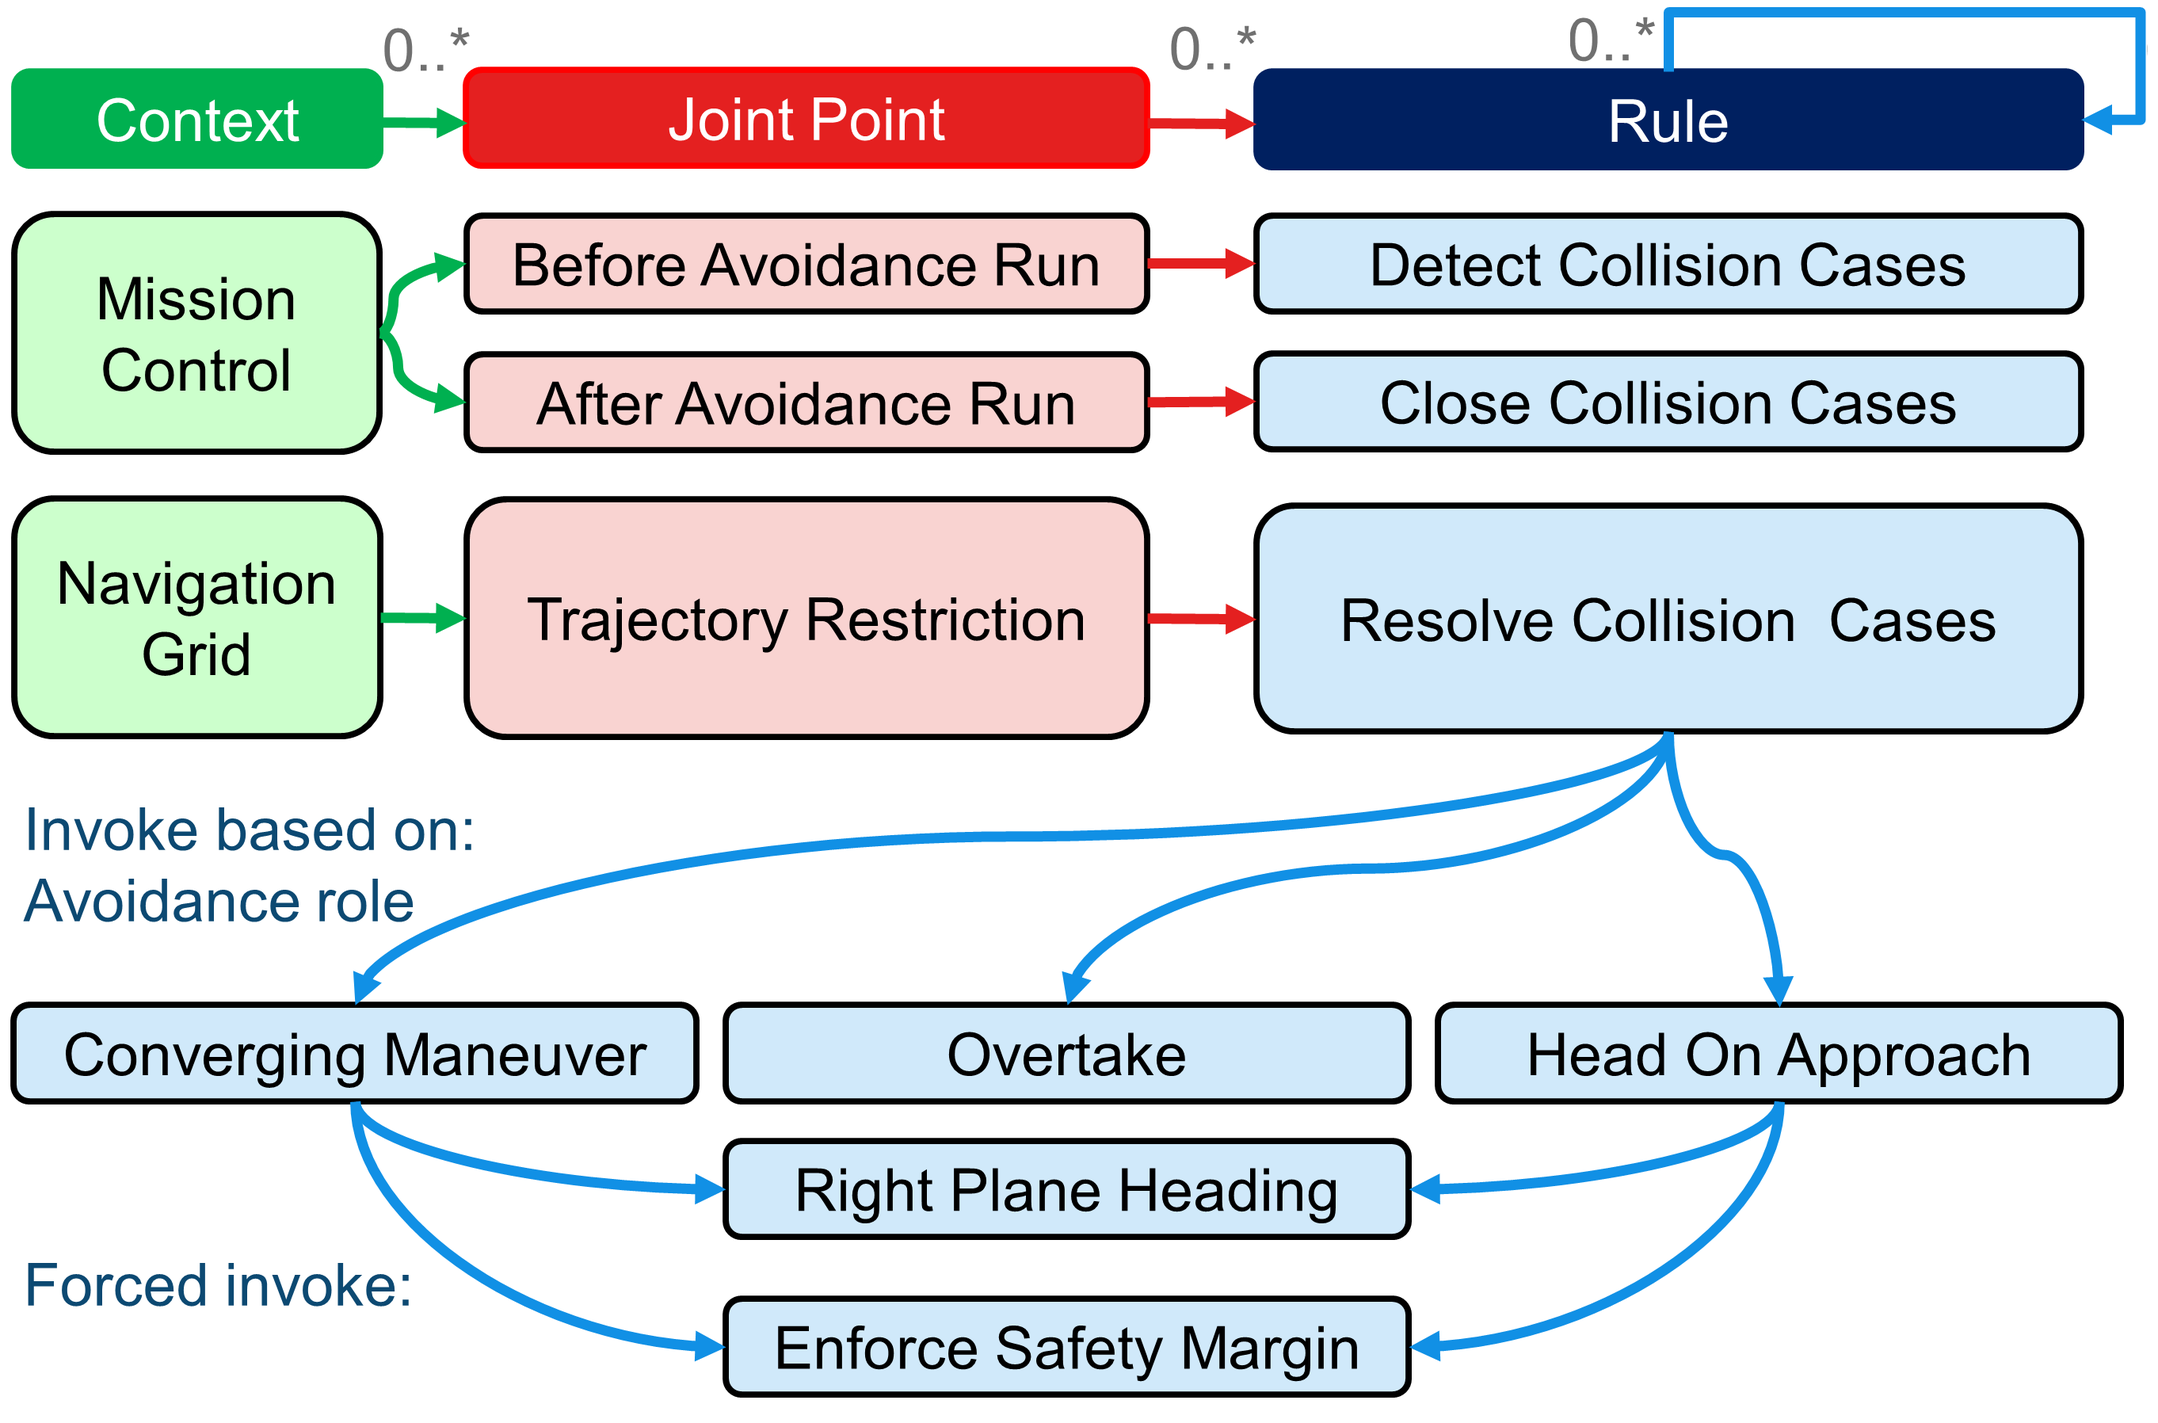
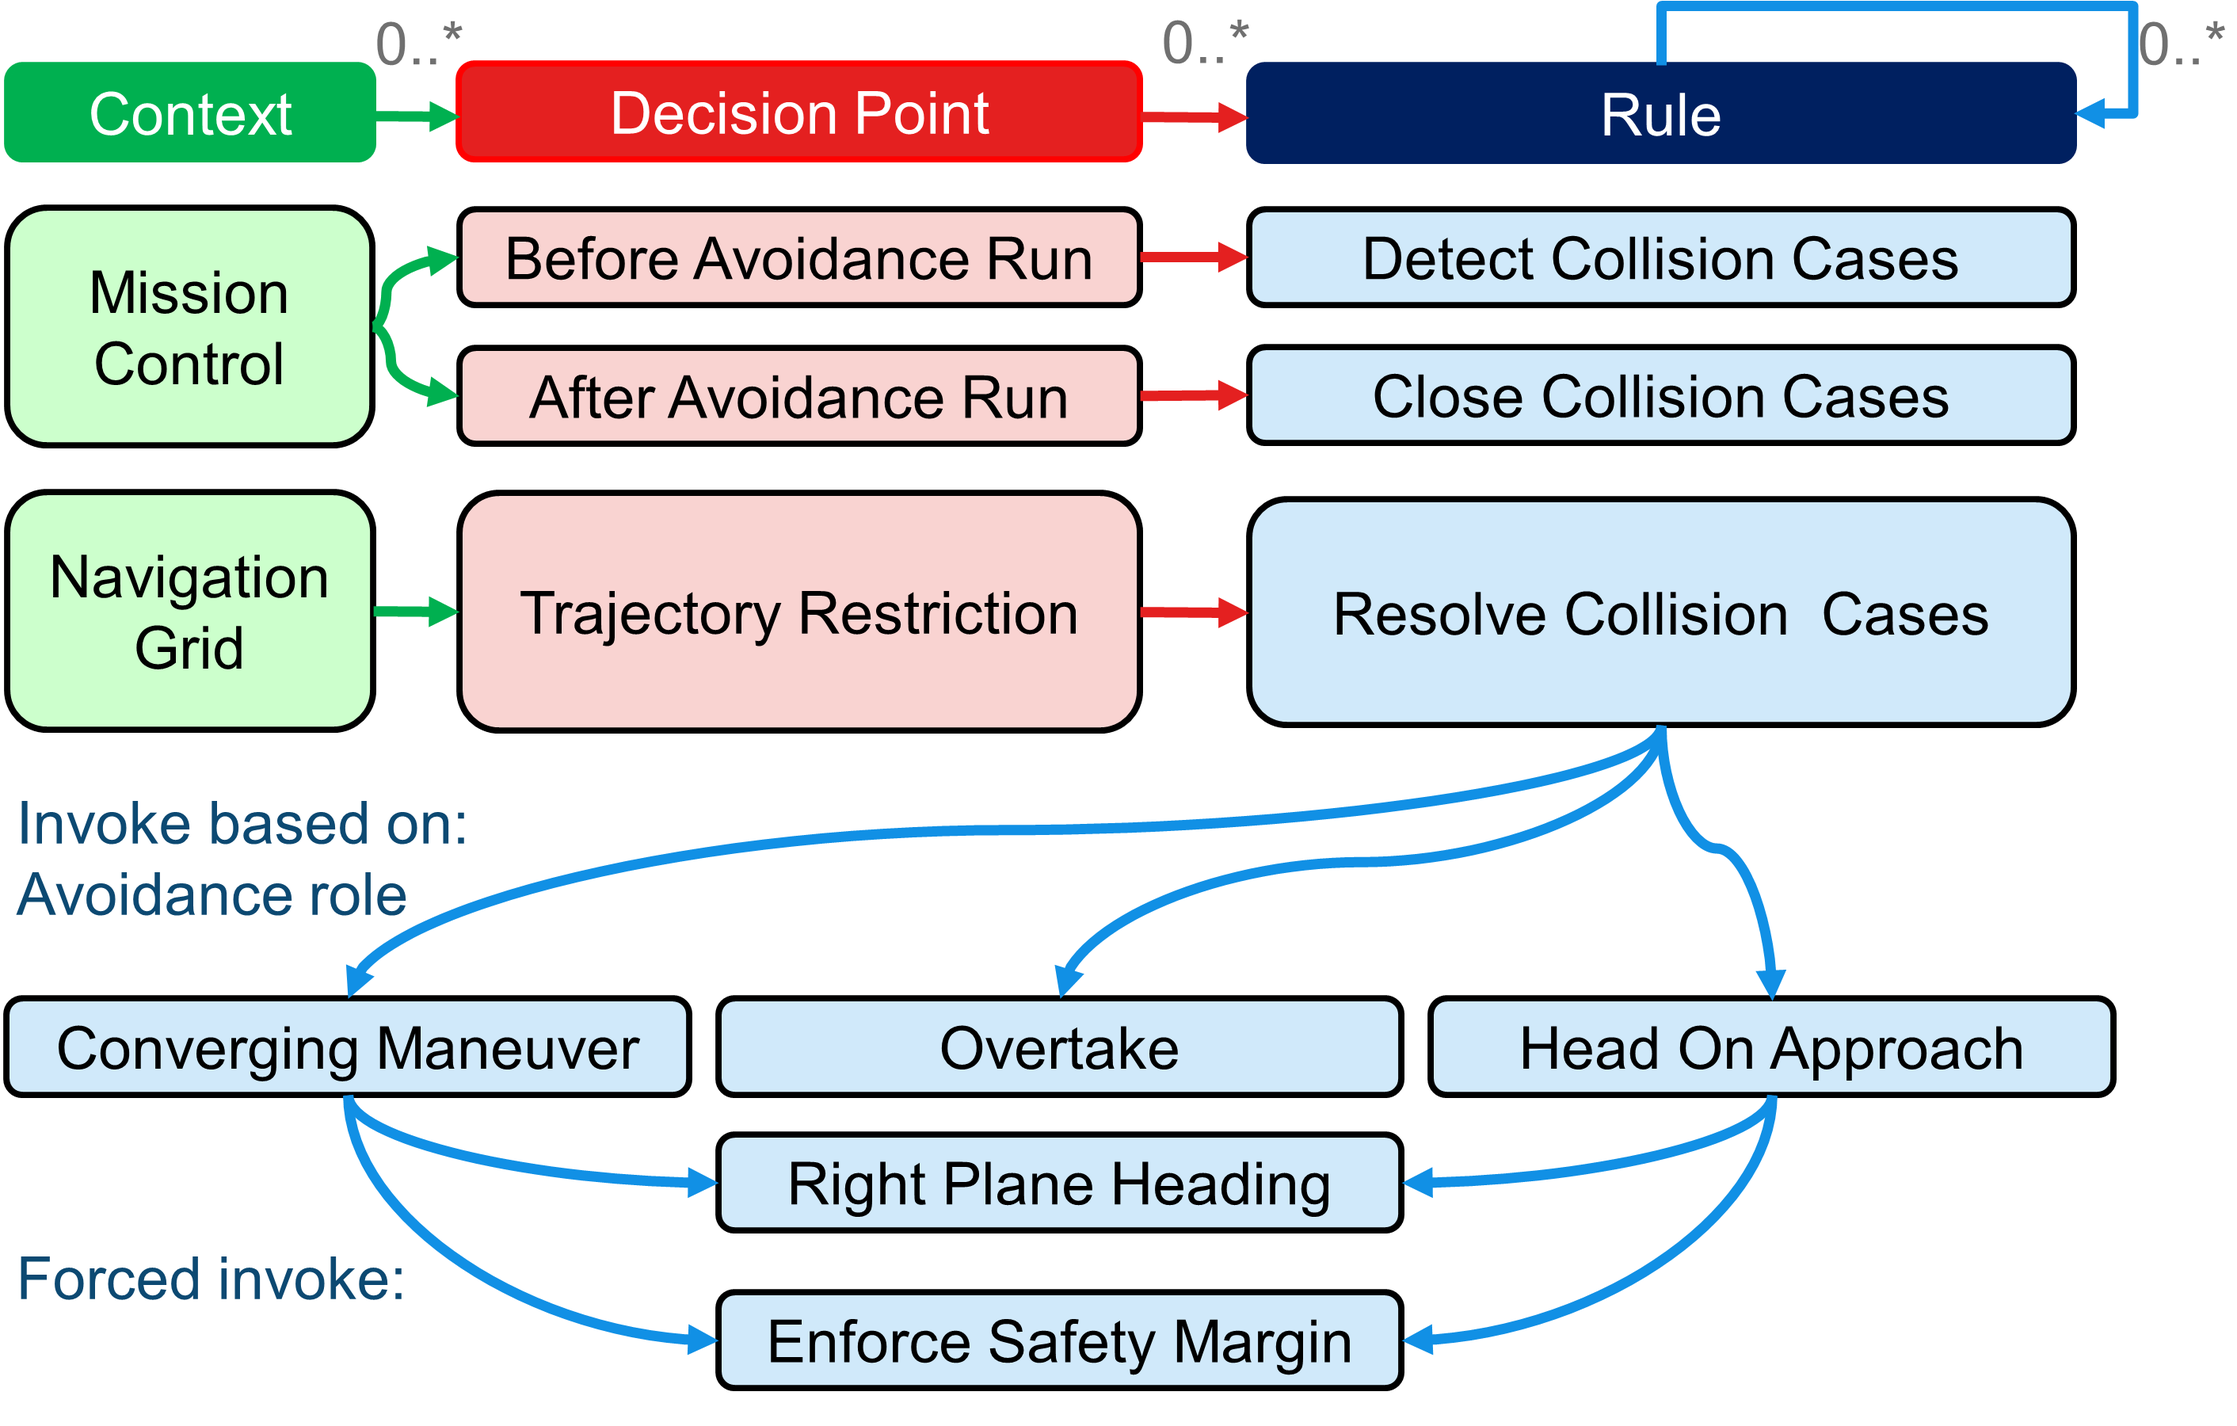
Section 3.8? Complements of Algebra

Changed region(s): [[0.0, 0.0, 0.9985, 0.9978], [0.2184, 0.9042, 0.2496, 0.9354]]

diff --git a/body.tex b/body.tex
@@ -5,49 +5,219 @@
 %--------------
 %- COPY START -
 %--------------        
-\subsection{(R) Architecture}\label{s:RuleEngineArchitecture}
+\section{(R) Complements of Algebra}\label{sec:complementsOfAlgebra}
 
-\paragraph{Purpose:} The \emph{core process} of \emph{Avoidance Grid Run} (sec. \ref{s:aviudabceGridRun}) and \emph{Mission Control Run} (sec. \ref{s:missionControlRun}) needs to be enhanced based on  situation. The architecture is based on \emph{aspect oriented approach} \cite{hill2003jess}. The key ideas and concept is taken from rule engine implementation for multiagent  navigation system \cite{seyboth2013event}.
+\paragraph{Cartesian Space:} 3D Cartesian space defined by an X, Y, and Z axes (describing position based on horizontal placement, vertical placement, and depth respectively). The coordinates for any point within this space are shown as a vector $[x,y,z]$. \emph{Coordinate system} used this work is the right-handed system (thumbs points at positive direction of x-axis, index finger is pointing to positive direction of y-axis, the positive  of z axis given by remaining fingers).
 
-\paragraph{Rule Engine:} The program module to inject and run \emph{rules} modifying standard work-flow based on  triggering events. The \emph{aspect oriented} approach enables to configure rules in \emph{run-time} via predefined process hooks - \emph{Decision Points}. 
+\paragraph{Base Works:}\emph{Euler} outlined \emph{universal rotation theorem} which was presented in \cite{euler1775formulae}. Rigid body dynamics and rotation matrices defined by Schaub \cite{schaub2003analytical}. 
 
-The rules in context of this work are pieces of code which have semi-static structure consisting from following parts (fig. \ref{fig:RuleEngineBasicArchitecture}):
+\paragraph{UAS Coordinate System:} \emph{Local Coordinate frame} is defined by UAS mass center as space center, $Z-$ in direction of gravitational force, $X+$ in direction of UAS heading. This local coordinate system is called Euler Normalized Unit-frame (ENU). 
 
-\begin{enumerate}
-    \item \emph{Decision Point} - hook point in process where the rule can be attached/detached. If more than one rule is hooked the priority of execution needs to be defined. 
-    
-    \item \emph{Context} - the \emph{run time context} in time of \emph{invocation} in our case the \emph{copy} of \emph{Mission Control}, \emph{Avoidance/Navigation Grid} and \emph{Collision Cases}.
-    
-    \item \emph{Parser Method} - optional helper method to parse interesting data set from \emph{Context}. The \emph{parsed data} have better readability.
-    
-    \item \emph{Condition Check Method} - implementation of the trigger. If the sufficient condition is met, the rule body is applied.
-    
-    \item \emph{Rule application} - calculations and data structure changes. Mainly \emph{disabling trajectories} in \emph{Reach Set} in our implementation.     
-\end{enumerate}
+\paragraph{Rotation Matrices:} Following \emph{Rotation Matrices} are used to transform between two displaced coordinate systems. Roll angle rotation is defined around X-axis by matrix (eq. \ref{eq:rollTransformationMatrix}) on YZ-plane. Pitch angle  rotation matrix is defined around Y-axis by matrix (eq. \ref{eq:pitchTransformationMatrix}) on XZ-plane. Yaw angle rotation matrix is defined around Z axis by matrix (eq. \ref{eq:yawTranformationMatrix}) on XY-plane.
 
-\paragraph{Configurability:} The \emph{Rule Engine} enables real time configuration. The \emph{Enabled Rule Table} have been implemented to enforce specific rules in specific context. 
+\begin{equation}\label{eq:rollTransformationMatrix}
+    R_{YZ} = R_{roll} =
+    \begin{bmatrix}
+        1 & 0 & 0\\
+        0 & \cos(roll) & -\sin(roll)\\
+        0 & \sin(roll) & \cos(roll)
+    \end{bmatrix}
+\end{equation}
+\begin{equation}\label{eq:pitchTransformationMatrix}
+    R_{XZ} = R_{pitch} =
+    \begin{bmatrix}
+        \cos(pitch) & 0 & \sin(pitch)\\
+        0 & 1 & 0\\
+        -\sin(pitch) & 0 & \cos(pitch)
+    \end{bmatrix}
+\end{equation}
+\begin{equation}\label{eq:yawTranformationMatrix}
+    R_{XY} = R_{yaw} = 
+    \begin{bmatrix}
+        \cos(yaw) & -\sin(yaw) & 0 \\
+        \sin(yaw) & \cos(yaw) & 1 \\
+        0 & 0 & 1
+    \end{bmatrix}
+\end{equation}
+The full rotation matrix in X,Y,Z  is given by (eq. \ref{eq:xyzspaceRotationMatrix}).
 
-The \emph{Rules} can be invoked from \emph{Rule Application}, this enables effective rule chaining and piece-wise functionality split. 
+\begin{equation}\label{eq:xyzspaceRotationMatrix}  
+        R_{XYZ}  = R_{roll,pitch,yaw} =  R_{XY} * R_{XZ} * R_{YZ} = R_{yaw} * R_{pitch} *R_{roll}
+\end{equation}
+
+\begin{note}
+    The rotation matrix $R_{XYZ}$ (eq. \ref{eq:xyzspaceRotationMatrix}) and its inverse $R_{XYZ}^{-1}$ which gives identity $R_{XYZ} \times R_{XYZ}^{-1} = I$ are used all over this work in transformation.
+\end{note}
+
+\paragraph{Gimbal Lock Prevention:} To keep solution numerically stable and rotations numerically stable gimbal lock prevention is necessary \cite{kramer1977gyro}. Gimbal lock occurs when one of matrices (eq. \ref{eq:rollTransformationMatrix}, \ref{eq:pitchTransformationMatrix}, \ref{eq:yawTranformationMatrix}) is singular or final matrix for X,Y,Z rotation is singular (eq. \ref{eq:xyzspaceRotationMatrix}). Gimbal lock leads to loose of one or more degree of freedom, depending on rank and space dimension of singular matrix. To prevent gimbal lock it is necessary to introduce mechanism to check if rotation matrix is regular. For this purpose normative reset function is introduced:
+\begin{equation}
+    \left [ roll, pitch , yaw \right ]^T = f(t,roll^-,pitch^-,yaw^-), \quad \textnormal{norm}(R_{roll,pitch, yaw})=3
+\end{equation}
+
+
+\noindent Function resets yaw or roll angle to initial position to keep degree of rotation matrix. Simpler but not fault tolerant solution is to keep angles $roll,pitch,yaw \in \left (  -\pi,\pi\right ]$ range.
+
+
+\paragraph{Polar coordinates:} A \emph{polar coordinate system} represents point in form of vector:
+\begin{equation*}
+    point_{polar}=[distance, horizontal Dislocation Angle, vertical Dislocation Angle]^T
+\end{equation*}
+which is ideal for representation of LiDAR scanned point, because usually total point distance and pair of dislocation angles are returned. Using most common LiDAR with horizontal rotation $horizontal^\circ$ and vertical mirror inclination $vertical^\circ$, one can define planar coordinate $point_{planar} = [distance_{x,y,z},horizontal^\circ,vertical^\circ]$ which is dual to Cartesian coordinate $point_{cartesian} = [x,y,z]$. If rotation angle  ranges are $horizontal^\circ,vertical^\circ\in(-\pi,\pi]$ transformation function is bijection.
+
+\paragraph{Planar $\to$ Cartesian:} Transformation from planar to Cartesian representation is defined by following series of functions (eq. \ref{eq:cpt01}, \ref{eq:cpt02},\ref{eq:cpt03}, \ref{eq:cpt04}).
+
+\begin{equation}\label{eq:cpt01}
+    distance_{xy} = \cos(horizontal^\circ)\times distance_{xyz}
+\end{equation}
+
+\begin{equation}\label{eq:cpt02}
+    z = \sin(hirizontal^\circ)\times distance_{xyz}
+\end{equation}
+
+\begin{equation}\label{eq:cpt03}
+    y = \sin(horizontal^\circ)\times distance_{xy}
+\end{equation}
+
+\begin{equation}\label{eq:cpt04}
+    x = \cos(vertical^\circ) \times distance_{xy}
+\end{equation}
+
+
+\paragraph{Cartesian $\to$ Planar:} Transformation from Cartesian to planar representation is defined by following series of functions (eq \ref{eq:cpt05}, \ref{eq:cpt06},\ref{eq:cpt07}, \ref{eq:cpt08}).
+
+\begin{equation}\label{eq:cpt05}
+    distance_{xyz} = \sqrt{x^2+y^2+z^2}    
+\end{equation}
+
+\begin{equation}\label{eq:cpt06}
+    distance_{xy} = \sqrt{x^2+y^2}    
+\end{equation}
+
+\begin{equation}\label{eq:cpt07}
+    horizontal^\circ = \arctan\left(\frac{y}{x}\right)
+\end{equation}
+
+\begin{equation}\label{eq:cpt08}
+    vertical^\circ =  \arctan \left( \frac{z}{d_{xy}}\right)
+\end{equation}
+
+\begin{definition}{Global Coordinate System (GCS) $\mathscr{X}_\mathscr{G}$}\label{def:globalCoordinateSystem}
+    takes as center $c_{\mathscr{G}0}$ well known point (for example center of geo-reference model in GNSS systems) every reference distance, plane or angle is calculated taking this center to mind.
+\end{definition}
+
+\begin{definition}{Local Coordinate System (LCS) $\mathscr{X}_\mathscr{L}$}\label{def:localCoordinateSystem}
+    takes as center $c_{\mathscr{L}0}$ frame of vehicle and can be changing position and orientation in global coordinate frame $\mathscr{X}_\mathscr{G}$.
+\end{definition}
+
+\begin{definition}{Global position of planar obstacle $o_i\in\mathscr{O}_{3D}$.}\label{def:globalObstaclePosition3D}
+    Let $o_i = [d_o, \theta_o, \varphi_o]^T$ be planar position of obstacle $o_i$ in local coordinate frame of vehicle with global Cartesian position $[x,_v,y_v,z_v]^T$ and normalized orientation angles $[roll_v,pitch_v,yaw_v]$.\\
+    Then Cartesian position of obstacle $oi$, $[x_o,y_o,z_o]^T$  in local coordinate frame is given by transformation functions $x_o$ (eq. \ref{eq:cpt04}), $y_o$ (eq. \ref{eq:cpt03}), $z_o$ (eq. \ref{eq:cpt02}).\\ 
+    Global  position of planar obstacle $oi$, $[x_g,y_g,z_g]^T$ is given by following equation:
+    \begin{equation}
+        \begin{bmatrix}
+            x_g\\y_g\\z_g
+        \end{bmatrix}
+        =
+        \left [
+            R_{XYZ}(roll_v,pitch_v,yaw_v)
+            \begin{bmatrix}
+                x_o\\y_o\\z_o
+            \end{bmatrix}
+            +
+            \begin{bmatrix}
+                x_v\\y_v\\z_v
+            \end{bmatrix}
+        \right ]
+    \end{equation}    
+\end{definition}
+
+\begin{definition}{Local position of global coordinate $[x_g,y_g,z_g]^T\in\R^3$.}\label{def:globalToLocal}
+    Let there be vehicle with global Cartesian position $[x,_v,y_v,z_v]^T$ and normalized orientation angles $[roll_v,$ $pitch_v,$ $yaw_v]$. in global coordinate frame $\mathscr{X}_\mathscr{X}$.\\
+    Then local Cartesian coordinate position $[x_l,y_l,z_l]^T$ of point $[x_g,y_g,z_g]^T$ is given by following equation:
+    \begin{equation}
+        \begin{bmatrix}
+            x_l\\y_l\\z_l
+        \end{bmatrix}
+        =
+        \left [
+            R_{XYZ}(-roll_v,-pitch_v,-yaw_v)
+            \left (
+            \begin{bmatrix}
+                x_g\\y_g\\z_g
+            \end{bmatrix}
+            -
+            \begin{bmatrix}
+                x_v\\y_v\\z_v
+            \end{bmatrix}
+            \right )
+        \right ]
+    \end{equation}
+    Local planar position is given as $[distance_l, horizontal_l^\circ,horizontal_l^\circ]$, where $distance_l$ is given by (eq. \ref{eq:cpt05}), $vertical_l^\circ$ is given by (eq. \ref{eq:cpt07}). $vertical_l^\circ$ is given by (eq. \ref{eq:cpt08}), where $[x_l,y_l,z_l]$ are used as local coordinates.
+\end{definition}
+
+\paragraph{Planar surface calculation:} The problem is to calculate intersected surface $dA$ of ball subsurface defined by radius $r$, horizontal span $\phi$ and vertical span $\theta$. From classical mechanics one can formulate problem as given by (fig. \ref{fig:80BallSpan}). The intersection plot is in (fig. \ref{fig:81BallSpan2}).
 
 \begin{figure}[H]
     \centering
-    \includegraphics[width=0.7\linewidth]{\FIGDIR/RE013RuleEngineBasicArchitecture}
-    \caption{Rule engine components overview.}
-    \label{fig:RuleEngineBasicArchitecture}
+    \begin{subfigure}[H]{0.3\textwidth}
+        \includegraphics[width=\textwidth]{\FIGDIR/80BallSpan.jpg}
+        \caption{Notation}
+        \label{fig:80BallSpan}
+    \end{subfigure}
+    \begin{subfigure}[H]{0.3\textwidth}
+        \includegraphics[width=\textwidth]{\FIGDIR/81BallSpan2.png}
+        \caption{Plot}
+        \label{fig:81BallSpan2}
+    \end{subfigure}
+    \caption{Planar surface calculation notation and plot}
+    \label{fig:BallSpanNOTPLOT}
 \end{figure}
 
-\paragraph{Example:} The \emph{UAS} is flying in controlled airspace. The \emph{intruder} shows in front of \emph{UAS}. The \emph{UAS} is faster than \emph{intruder}. The \emph{UAS} tries to obtain permission for \emph{Overtake}. The \emph{UTM} does not allow \emph{overtake}, because of \emph{insufficient UAS maneuverability capability}. The \emph{Rule} (fig. \ref{fig:RuleEngineBasicArchitecture}) with:
-\begin{enumerate}
-    \item \emph{Context} - UAS Mission Control, containing the actual mission goal and UAS parameters. 
-    
-    \item \emph{Decision Point} (Joint Point) - Navigation grid, containing projected constraints and reach set approximation.
-    
-    \item \emph{Rule is invoked:}
-    \begin{enumerate}[a.]
-        \item \emph{Parser} parses the context which is \emph{Intruder position notification} containing heading and velocity.
-        
-        \item \emph{Condition} is checked to \emph{relative intruder velocity}. The \emph{evaluation} is positive, when the UAS is \emph{pursuing intruder}.
-        
-        \item \emph{Application} of \emph{Rule} is last step, in this case the \emph{UAS} will slow down.
-    \end{enumerate}
-\end{enumerate}
+\noindent One can use first fundamental form to determine the surface area element. Recall that this is the metric tensor, whose components are obtained by taking the inner product of two tangent vectors in planar space $g_{i,j}= X_i \cdot X_j$, for tangent vectors $X_i$, $X_j$. Following identification for the components of metric tensor will be used:
+\begin{equation}\label{eq:metricTensorIdentification}
+    g_{ij}=
+    \begin{bmatrix}
+        E&F\\
+        F&G
+    \end{bmatrix}
+\end{equation}
+
+\noindent Where $E=<X_u,X_u>$, $F=<X_u,X_v>$, and $G=<X_v,X_v>$. Lagrange`s identity can be used , which tells us that the squared area of a parallelogram in space is equal to the sum of the squares of its projections onto the Cartesian plane:
+\begin{equation}\label{eq:CartesianProjectionIdentity}
+    |X_u \times X_v|^2 = |X_u|^2|X_v|^2 - \left(X_u\cdot X_v\right)^2
+\end{equation}
+
+\noindent Given example is displayed in (fig. \ref{fig:81BallSpan2}). The area element is given as:
+\begin{equation}\label{eq:squareElementSurfaceDerivation}
+    \begin{aligned}
+    \text{d}A &= |X_u \times X_v| \quad\text{d}u\text{d}v \\
+    & = \sqrt{\left||X_u|^2|X_v|^2 - \left(X_u\cdot X_v\right)^2\right|}\quad \text{d}u\text{d}v\\ 
+    & = \sqrt{EG-F^2} \quad \text{d}u\text{d}v
+    \end{aligned}
+\end{equation}
+
+\noindent We will find tangent vectors via the usual parametrization which give, $X(\phi,\theta)$ = $[r \cos\phi\sin\theta,$ $r\sin\phi\sin\theta,$ $r\cos\theta]$, so that tangent vectors are simply defined as:
+\begin{equation}\label{eq:tangentVectorsForPlanarSurface}
+    \begin{aligned}
+        X_\phi &= [-r\sin\phi\cos\theta,r\cos\phi\sin\theta,0]\\
+        X_\theta &=[-r\cos\phi\sin\theta,r\sin\phi\cos\theta,-r\sin\theta]
+    \end{aligned}
+\end{equation}
+
+\noindent Computing the elements of the first fundamental form gives us:
+\begin{equation}
+    E = r^2\cos^2\theta,\quad F=0,\quad G=r^2
+\end{equation}
+
+\noindent Thus final difference is given as:
+\begin{equation}\label{eq:finalCellSquareNice}
+    \text{d}A=\sqrt{r^4\cos^2}\quad \text{d}\theta\text{d}\phi = r^2 \cos\theta\quad \text{d}\theta\text{d}\phi
+\end{equation}
+
+\begin{note} 
+    \emph{Planar Surface} is used in \emph{Detected Obstacle Rating Calculation} (sec. \ref{s:detectedObstacles}). The final formula used in \emph{surface integral calculation} in \emph{non-compact notation} is given as follow:
+
+    \begin{equation}\label{eq:finalCellSquare}
+        \text{d}A= r^2 \cos(horizontal^\circ)\quad \text{d}horizontal^\circ \text{d}vertical^\circ
+    \end{equation}
+\end{note}
